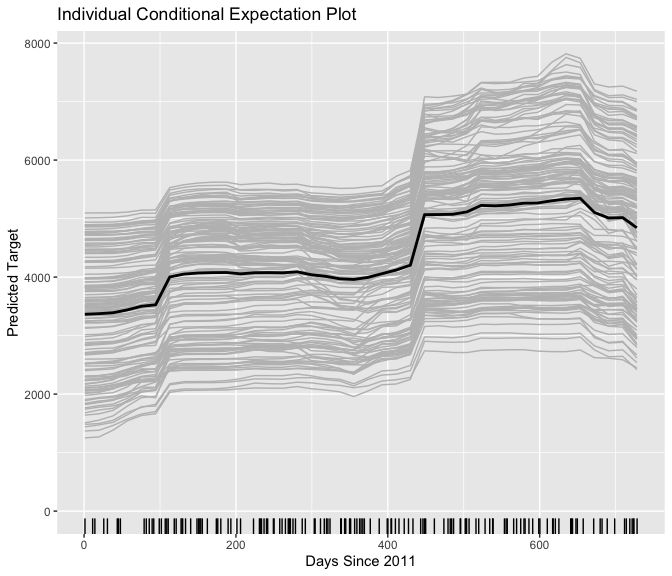
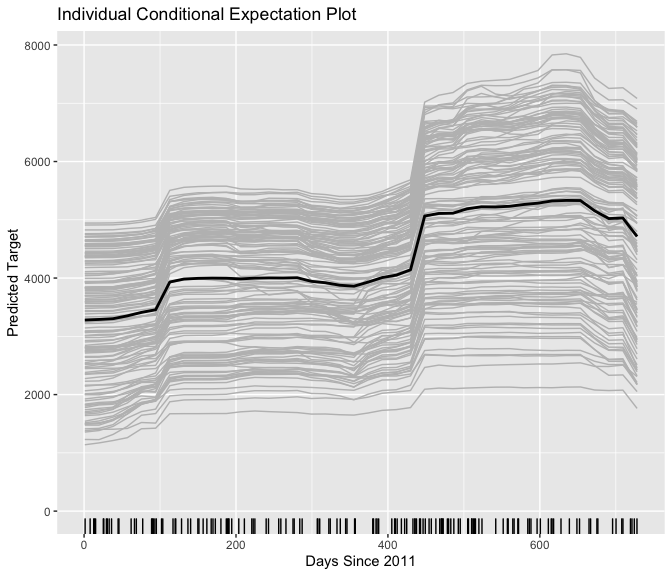
change titanic to bike

diff --git a/README.md b/README.md
@@ -49,10 +49,10 @@ data("bike")
 
 ### Training and Testing Split
 
-The `titanic` data set set is split into a training set and a test set
-with the rsample package. The trainiing set is used to train the
-predictive models and the test set is used to test and interpret the
-predictive models.
+The `bike` data set set is split into a training set and a test set with
+the rsample package. The trainiing set is used to train the predictive
+models and the test set is used to test and interpret the predictive
+models.
 
 ``` r
 split <- initial_split(bike, prop = 4 / 5, strata = "bikes_rented")
@@ -85,7 +85,7 @@ predict(rf, bike_test) %>%
 #> # A tibble: 1 x 3
 #>   .metric .estimator .estimate
 #>   <chr>   <chr>          <dbl>
-#> 1 mae     standard        488.
+#> 1 mae     standard        431.
 ```
 
 ### Permutation Importance Plot
